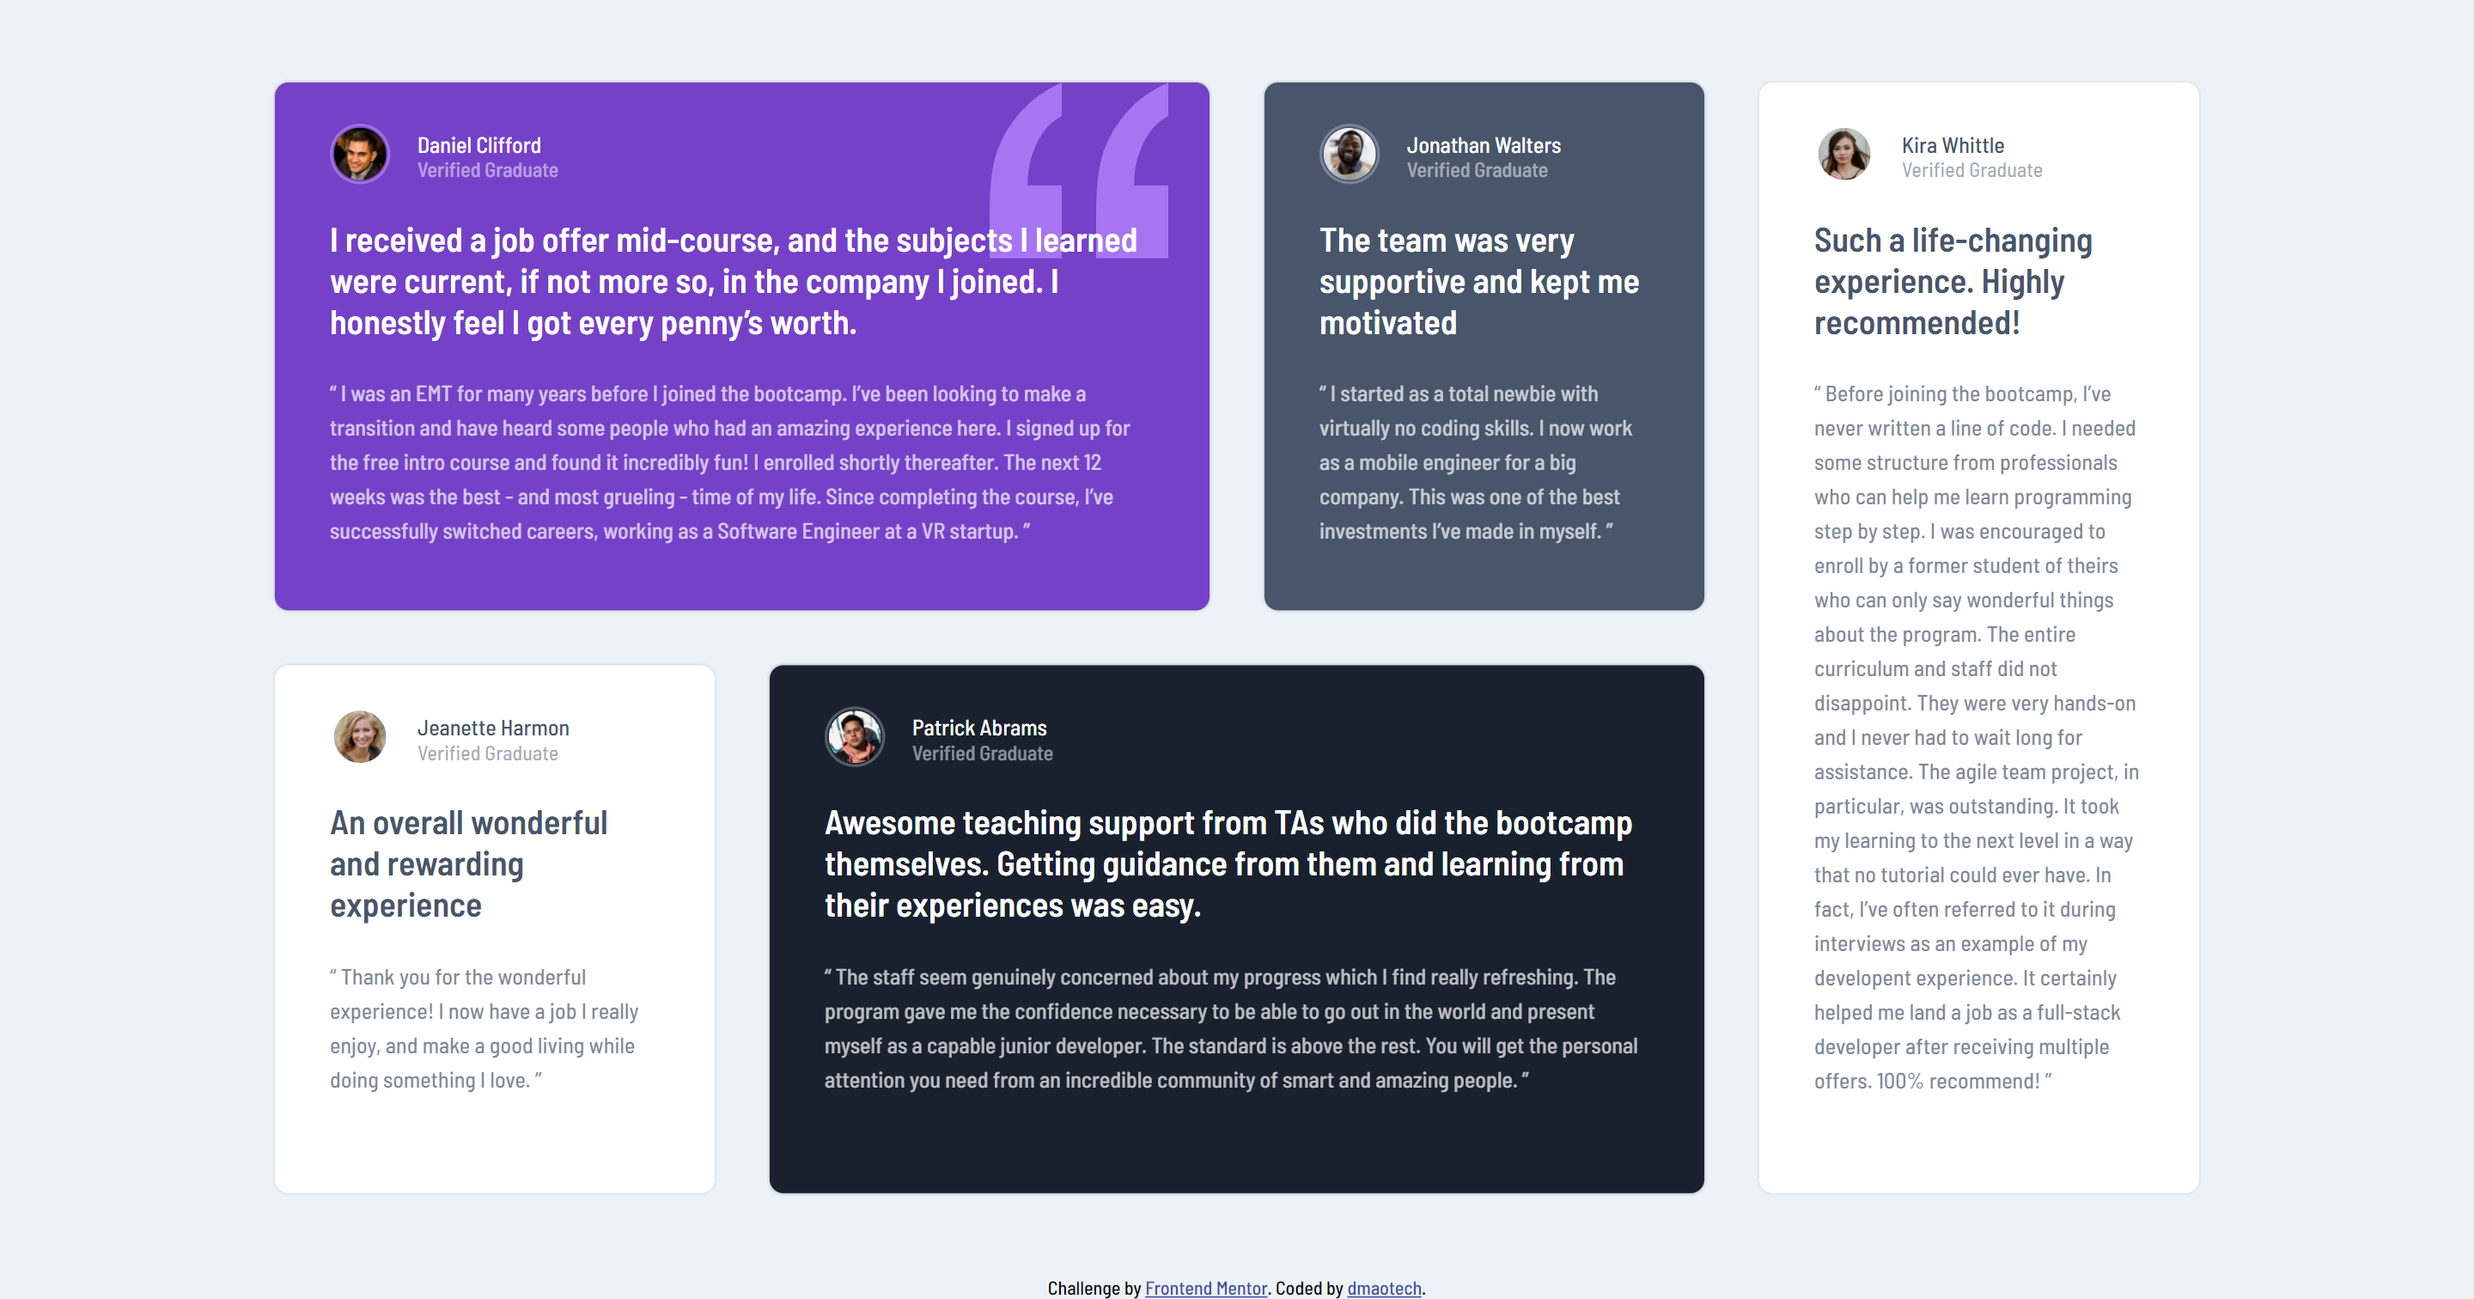
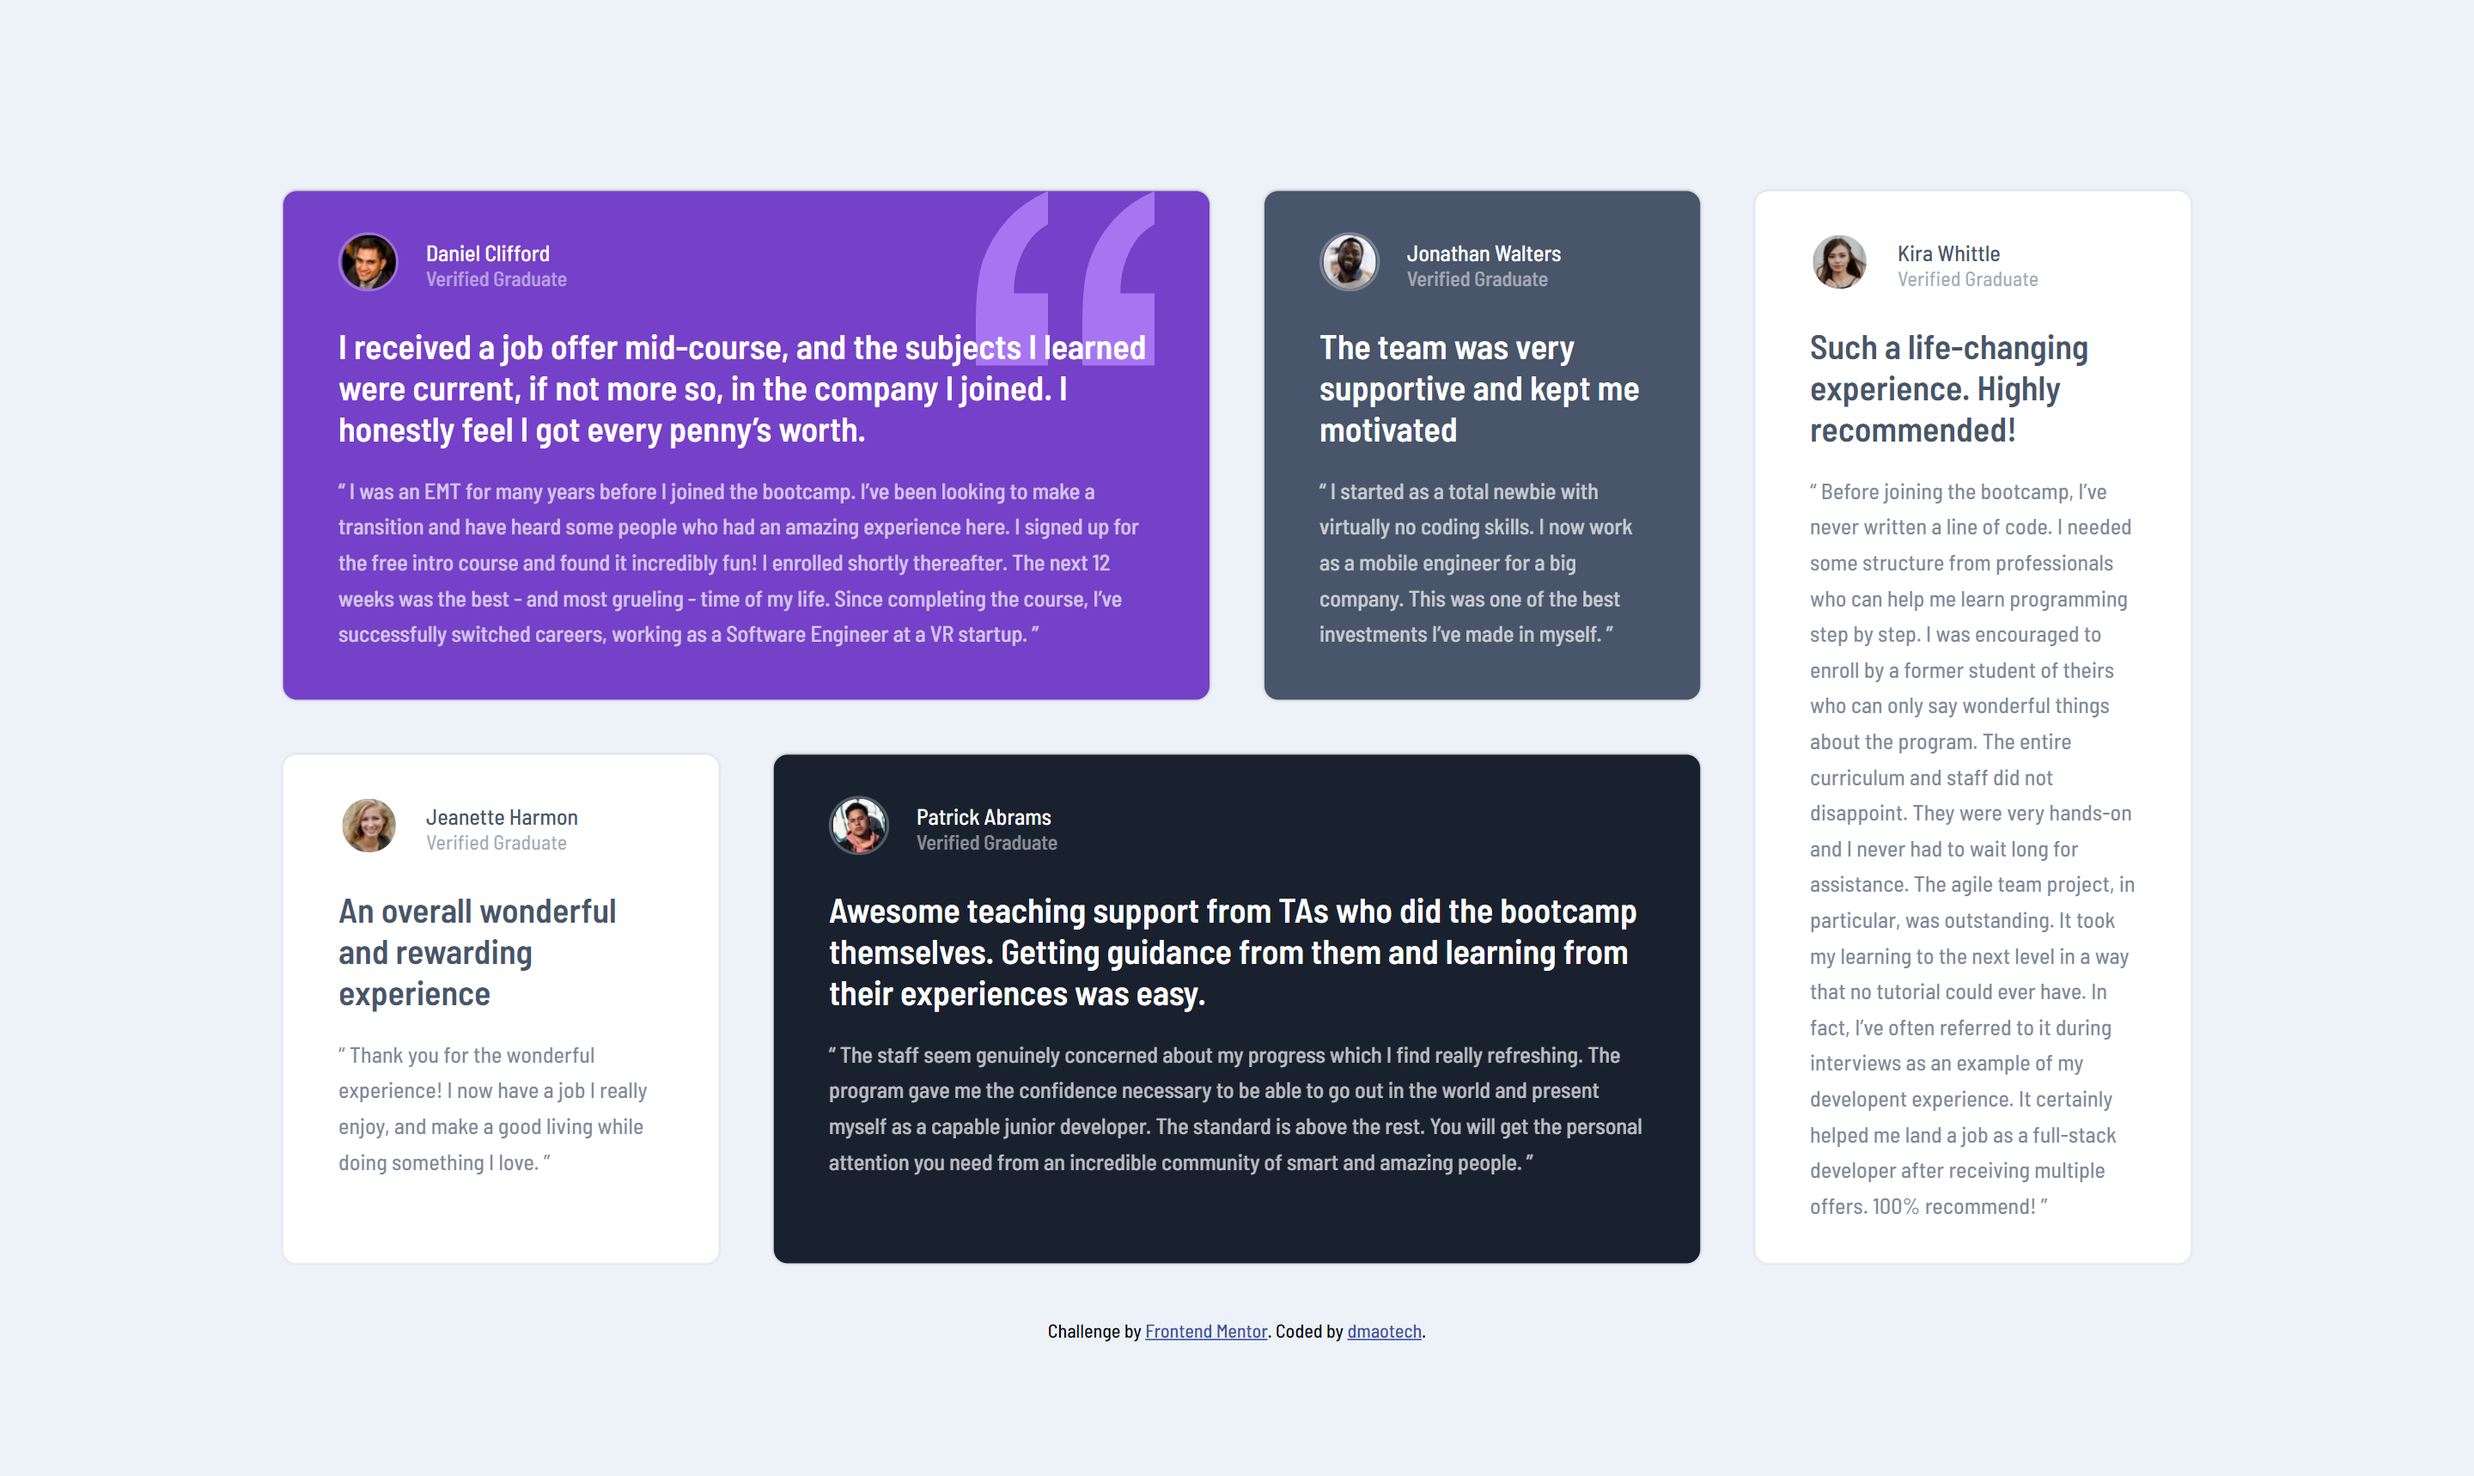
Make some improvements about the semantic HTML and center the layout

diff --git a/index.html b/index.html
@@ -18,12 +18,12 @@
 </head>
 <body>
   <main class="main-container">
-    <section class="card">
-      <img id="quotation" src="./images/bg-pattern-quotation.svg" alt="">
+    <article class="card">
+      <img id="quotation" src="./images/bg-pattern-quotation.svg" alt="quotation decoration image">
 
       <header class="card-header">
         <div class="header-img--container">
-          <img src="./images/image-daniel.jpg" alt="">
+          <img src="./images/image-daniel.jpg" alt="profile image">
         </div>
 
         <div class="card-header--text">
@@ -33,25 +33,25 @@
       </header>
 
       <div class="card-body--container">
-        <p class="card-body--title">
+        <blockquote class="card-body--title">
           I received a job offer mid-course, and the subjects I learned were current, if not more so, 
           in the company I joined. I honestly feel I got every penny’s worth.
-        </p>
+        </blockquote>
 
-        <p class="card-body--comment">
-          “ I was an EMT for many years before I joined the bootcamp. I’ve been looking to make a 
+        <q class="card-body--comment">
+          I was an EMT for many years before I joined the bootcamp. I’ve been looking to make a 
           transition and have heard some people who had an amazing experience here. I signed up 
           for the free intro course and found it incredibly fun! I enrolled shortly thereafter. 
           The next 12 weeks was the best - and most grueling - time of my life. Since completing 
-          the course, I’ve successfully switched careers, working as a Software Engineer at a VR startup. ”
-        </p>
+          the course, I’ve successfully switched careers, working as a Software Engineer at a VR startup.
+        </q>
       </div>
-    </section>
+    </article>
 
-    <section class="card">
+    <article class="card">
       <header class="card-header">
         <div class="header-img--container">
-          <img src="./images/image-jonathan.jpg" alt="">
+          <img src="./images/image-jonathan.jpg" alt="profile image">
         </div>
 
         <div class="card-header--text">
@@ -61,21 +61,21 @@
       </header>
 
       <div class="card-body--container">
-        <p class="card-body--title">
+        <blockquote class="card-body--title">
           The team was very supportive and kept me motivated
-        </p>
+        </blockquote>
 
-        <p class="card-body--comment">
-          “ I started as a total newbie with virtually no coding skills. I now work as a mobile engineer 
-          for a big company. This was one of the best investments I’ve made in myself. ”
-        </p>
+        <q class="card-body--comment">
+          I started as a total newbie with virtually no coding skills. I now work as a mobile engineer 
+          for a big company. This was one of the best investments I’ve made in myself. 
+        </q>
       </div>
-    </section>
+    </article>
 
-    <section class="card">
+    <article class="card">
       <header class="card-header">
         <div class="header-img--container">
-          <img src="./images/image-jeanette.jpg" alt="">
+          <img src="./images/image-jeanette.jpg" alt="profile image">
         </div>
 
         <div class="card-header--text">
@@ -85,21 +85,21 @@
       </header>
 
       <div class="card-body--container">
-        <p class="card-body--title">
+        <blockquote class="card-body--title">
           An overall wonderful and rewarding experience
-        </p>
+        </blockquote>
 
-        <p class="card-body--comment">
-          “ Thank you for the wonderful experience! I now have a job I really enjoy, and make a good living 
-          while doing something I love. ”
-        </p>
+        <q class="card-body--comment">
+          Thank you for the wonderful experience! I now have a job I really enjoy, and make a good living 
+          while doing something I love. 
+        </q>
       </div>
-    </section>
+    </article>
 
-    <section class="card">
+    <article class="card">
       <header class="card-header">
         <div class="header-img--container">
-          <img src="./images/image-patrick.jpg" alt="">
+          <img src="./images/image-patrick.jpg" alt="profile image">
         </div>
 
         <div class="card-header--text">
@@ -109,24 +109,24 @@
       </header>
 
       <div class="card-body--container">
-        <p class="card-body--title">
+        <blockquote class="card-body--title">
           Awesome teaching support from TAs who did the bootcamp themselves. Getting guidance from them and 
           learning from their experiences was easy.
-        </p>
+        </blockquote>
 
-        <p class="card-body--comment">
-          “ The staff seem genuinely concerned about my progress which I find really refreshing. The program 
+        <q class="card-body--comment">
+          The staff seem genuinely concerned about my progress which I find really refreshing. The program 
           gave me the confidence necessary to be able to go out in the world and present myself as a capable 
           junior developer. The standard is above the rest. You will get the personal attention you need from 
-          an incredible community of smart and amazing people. ”
-        </p>
+          an incredible community of smart and amazing people. 
+        </q>
       </div>
-    </section>
+    </article>
 
-    <section class="card">
+    <article class="card">
       <header class="card-header">
         <div class="header-img--container">
-          <img src="./images/image-kira.jpg" alt="">
+          <img src="./images/image-kira.jpg" alt="profile image">
         </div>
 
         <div class="card-header--text">
@@ -136,22 +136,22 @@
       </header>
 
       <div class="card-body--container">
-        <p class="card-body--title">
+        <blockquote class="card-body--title">
           Such a life-changing experience. Highly recommended!
-        </p>
+        </blockquote>
         
-        <p class="card-body--comment">
-          “ Before joining the bootcamp, I’ve never written a line of code. I needed some structure from 
+        <q class="card-body--comment">
+          Before joining the bootcamp, I’ve never written a line of code. I needed some structure from 
           professionals who can help me learn programming step by step. I was encouraged to enroll by a former 
           student of theirs who can only say wonderful things about the program. The entire curriculum and staff 
           did not disappoint. They were very hands-on and I never had to wait long for assistance. The agile team 
           project, in particular, was outstanding. It took my learning to the next level in a way that no tutorial 
           could ever have. In fact, I’ve often referred to it during interviews as an example of my developent 
           experience. It certainly helped me land a job as a full-stack developer after receiving multiple offers. 
-          100% recommend! ”
-        </p>
+          100% recommend! 
+        </q>
       </div>
-    </section>
+    </article>
   </main>
 
   <footer class="attribution">

diff --git a/css/styles.css b/css/styles.css
@@ -25,18 +25,27 @@
 }
 
 body {
+    min-height: 100vh;
     margin: 0;
     padding: 0;
     background-color: var(--light-grayish-blue);
+    display: flex;
+    flex-direction: column;
+    align-items: center;
+    justify-content: center;
 }
 
 img {
     max-width: 100%;
 }
 
+q, blockquote {
+    margin: 13px 0;
+    padding: 0;
+}
+
 /* Mobile */
 .main-container {
-    margin-block: 2rem;
     display: grid;
     grid-template-columns: 1fr;
     place-content: center;
@@ -149,13 +158,14 @@ img {
 /* Desktop */
 @media (min-width: 900px) {
     .main-container {
-        padding: 1rem 10rem;
+        /* padding: 1rem 10rem; */
         grid-template-areas: 
         "daniel daniel jonathan kira"
         "jannete patrick patrick kira";
         grid-template-columns: repeat(4, 1fr);
         grid-template-rows: repeat(2, 1fr);
         gap: 2rem;
+        max-width: 1110px;
     }
 
     .card {
